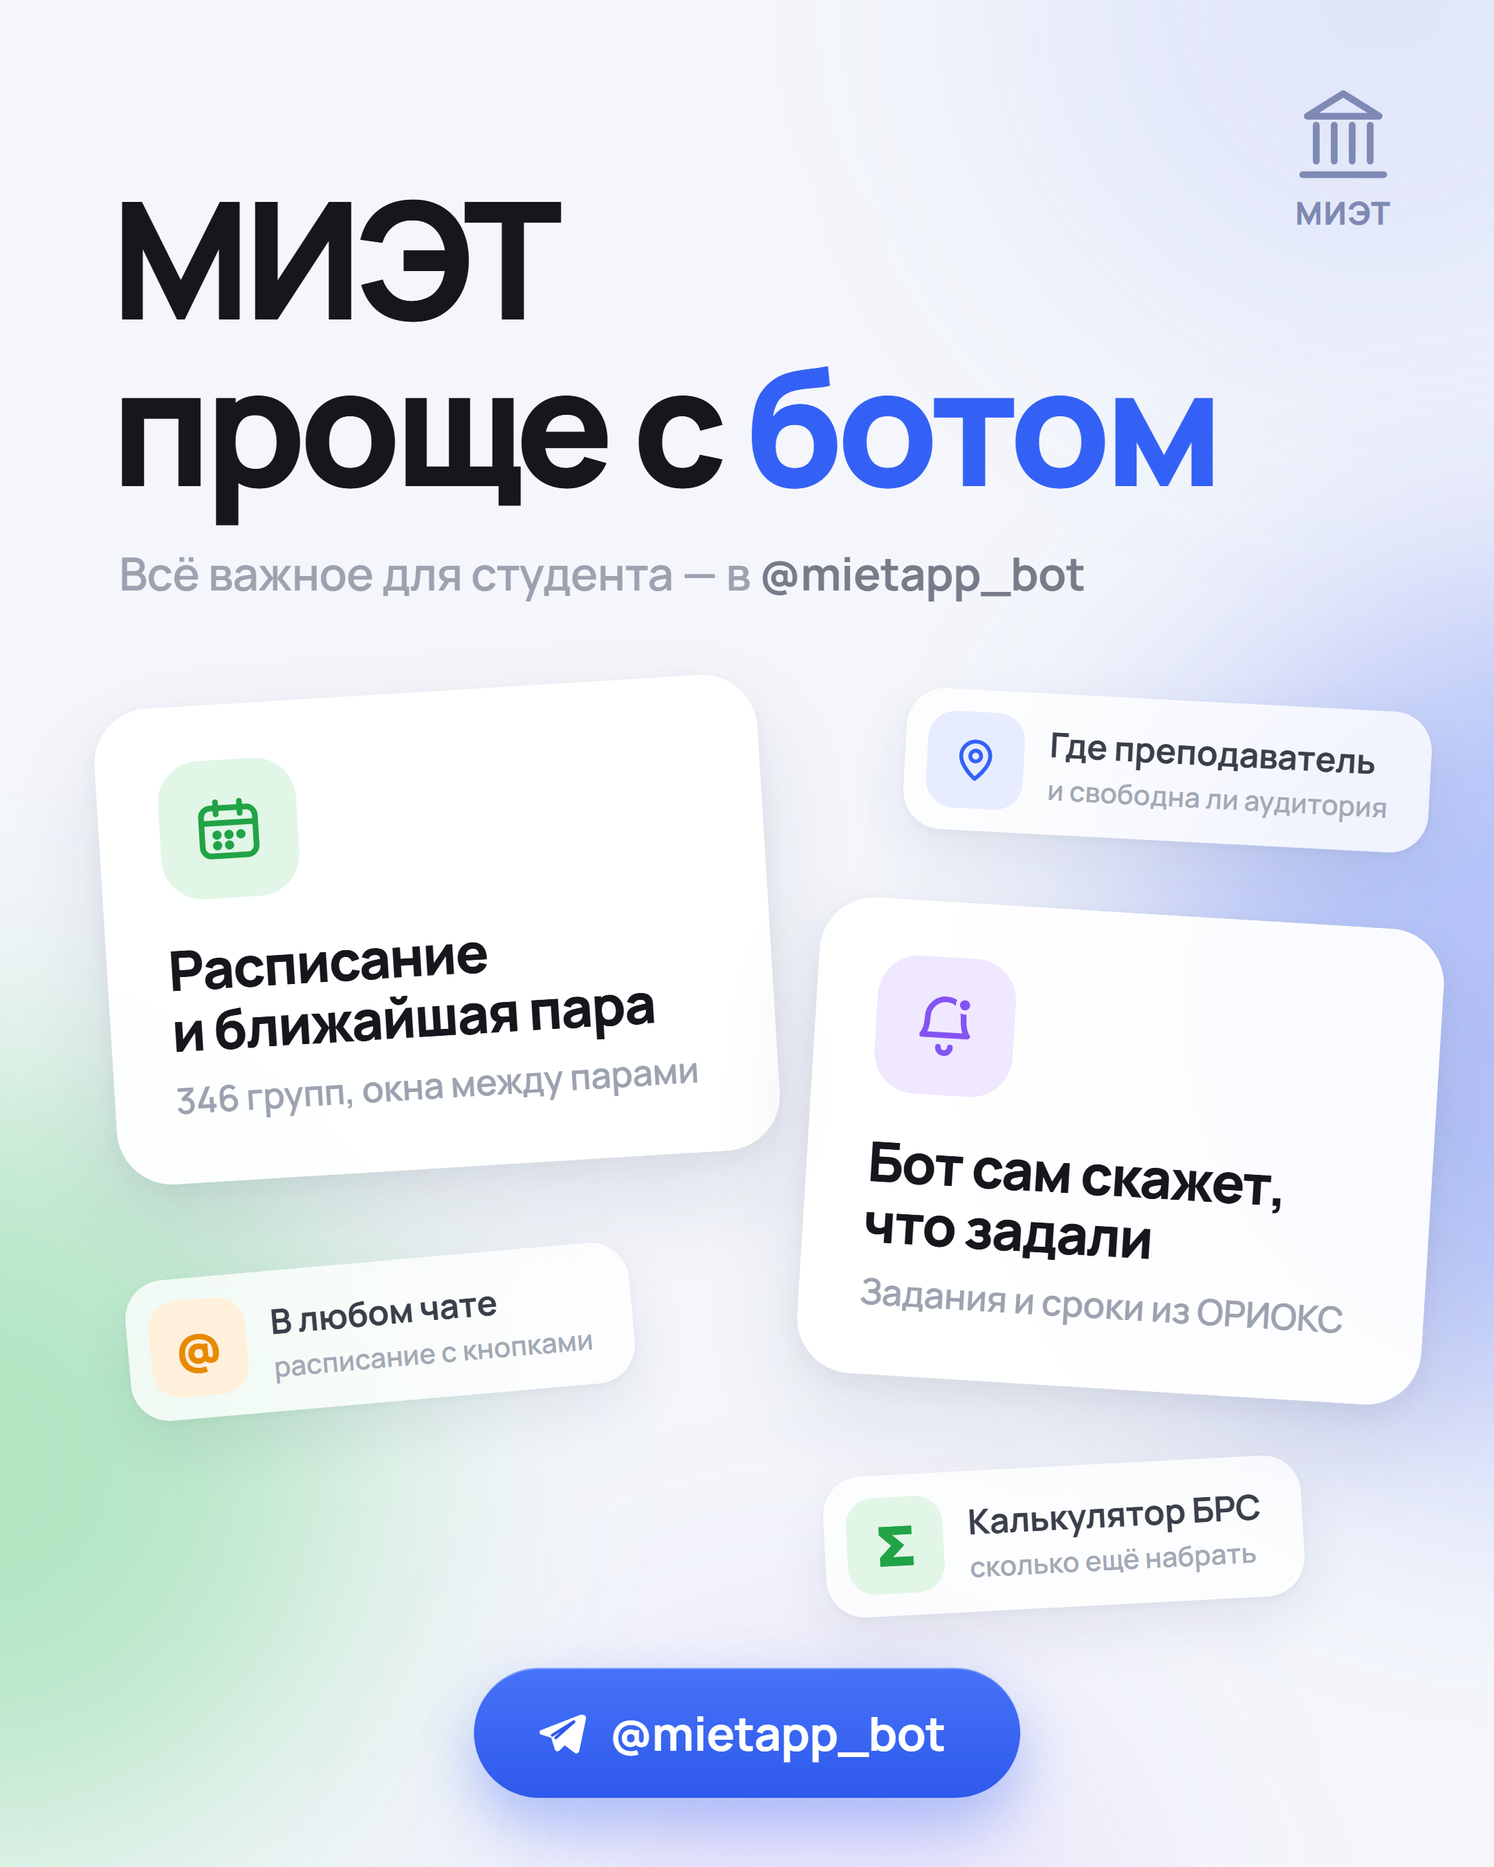
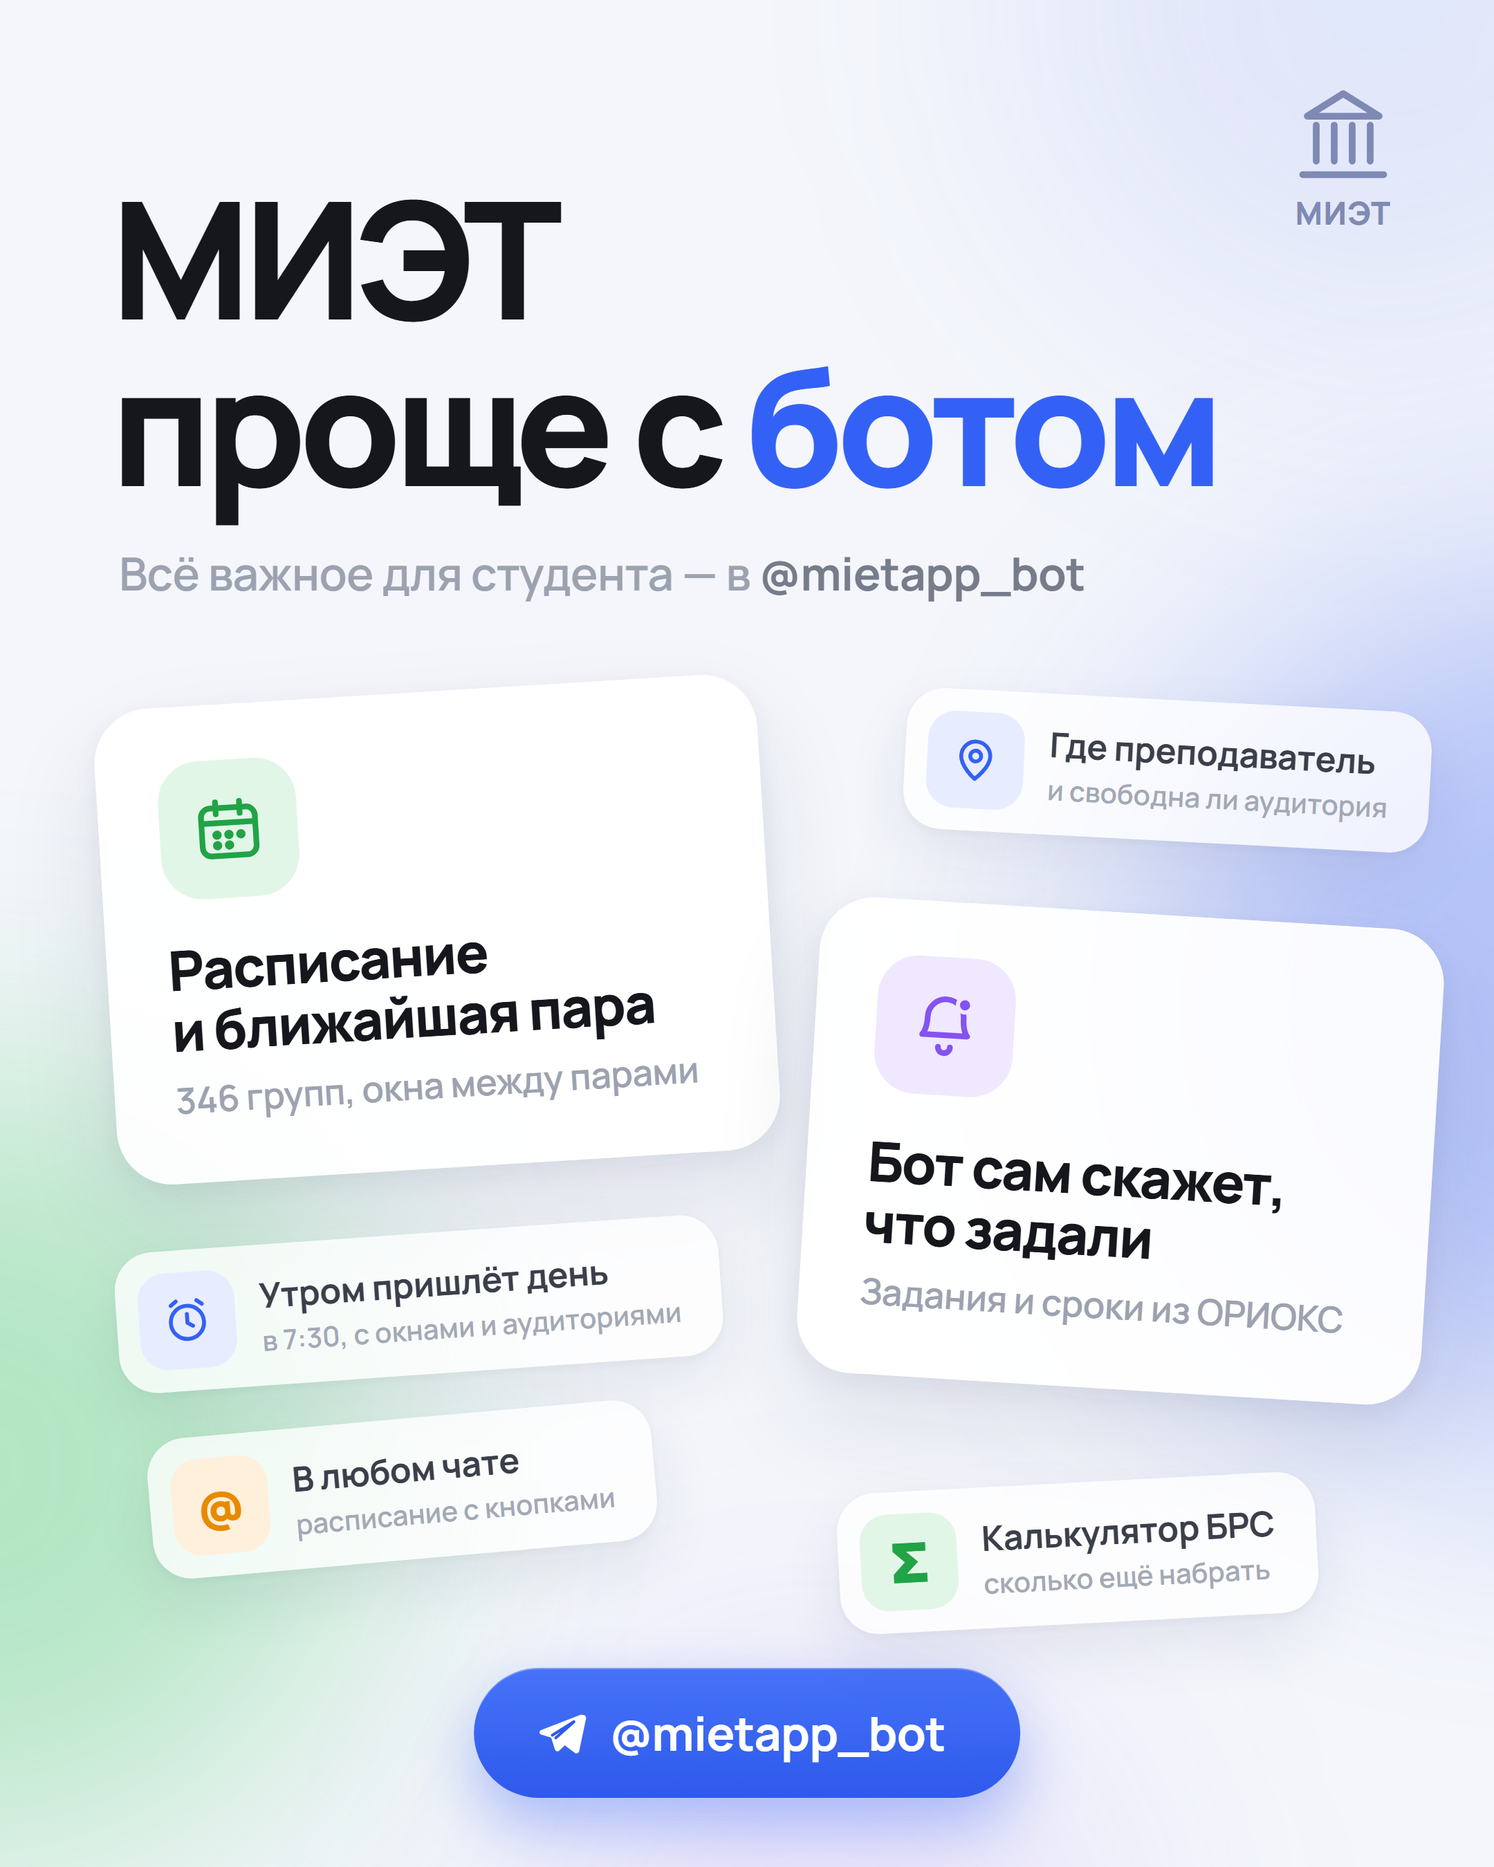
Пост собирается нашими премиум-эмодзи
Значки в подписи были случайные — те, что под рукой в раскладке. Теперь
они берутся из bot/emoji.py, из того же набора, который бот рисует в
расписании: человек видит одни и те же иконки в посте и внутри бота, и
это читается как одно целое.

Отправку вынес в promo/send.py: пост набирается один раз, а отсылать
его себе нужно каждый раз, когда меняется текст или картинка, — и
именно так, как его увидит читатель. Скопировать разметку руками
нельзя, Telegram Desktop вставит её обычным текстом. Если премиум-
эмодзи не примут, скрипт отправит те же строки запасными обычными:
набор хранит пару как раз для этого.

На карточке добавилась утренняя рассылка — то, чего у соседей нет:
остальное надо открыть и нажать, а эта работает сама.

Changed region(s): [[0.062, 0.6533, 0.4653, 0.8711], [0.5583, 0.7778, 0.8685, 0.8711]]

diff --git a/promo/card.html b/promo/card.html
@@ -163,14 +163,25 @@
     <p>Задания и сроки из ОРИОКС</p>
   </div>
 
-  <!-- любой чат: плашка, слева -->
-  <div class="chip" style="left: 92px; top: 912px; transform: rotate(-5deg)">
+  <!-- утренняя карточка: плашка, слева — это главное отличие бота -->
+  <div class="chip" style="left: 84px; top: 892px; transform: rotate(-4deg)">
+    <div class="tile t-blue">
+      <svg width="36" height="36" viewBox="0 0 24 24">
+        <circle cx="12" cy="13" r="8"/><path d="M12 9v4.2l2.6 1.6"/>
+        <path d="M4.5 4.5 7 2.6M19.5 4.5 17 2.6"/>
+      </svg>
+    </div>
+    <div><b>Утром пришлёт день</b><small>в 7:30, с окнами и аудиториями</small></div>
+  </div>
+
+  <!-- любой чат: плашка, слева ниже -->
+  <div class="chip" style="left: 108px; top: 1026px; transform: rotate(-5deg)">
     <div class="tile t-orange"><span class="glyph" style="font-size: 38px">@</span></div>
     <div><b>В любом чате</b><small>расписание с кнопками</small></div>
   </div>
 
   <!-- БРС: плашка, справа снизу -->
-  <div class="chip" style="left: 596px; top: 1060px; transform: rotate(-3deg)">
+  <div class="chip" style="left: 606px; top: 1072px; transform: rotate(-3deg)">
     <div class="tile t-green"><span class="glyph" style="font-size: 40px">Σ</span></div>
     <div><b>Калькулятор БРС</b><small>сколько ещё набрать</small></div>
   </div>

diff --git a/promo/send.py b/promo/send.py
@@ -1,0 +1,105 @@
+# -*- coding: utf-8 -*-
+"""
+Отправляет промо-карточку с подписью себе в Telegram.
+
+    python promo/send.py           → карточка + подпись на премиум-эмодзи
+    python promo/send.py --plain   → то же обычными значками
+
+Зачем отдельный скрипт: пост набирается один раз, а отправить его себе
+нужно каждый раз, когда меняется текст или картинка, — и отправить
+именно так, как его увидит читатель, вместе с премиум-эмодзи. Копировать
+разметку руками в этом случае бесполезно: Telegram Desktop вставит её
+как обычный текст.
+
+Значки берутся из `bot/emoji.py` — того же набора, что бот рисует в
+расписании. Человек видит одни и те же иконки в посте и внутри бота, и
+это читается как одно целое. Если Telegram премиум-эмодзи не примет
+(их разрешают не всякому имени бота), скрипт отправит те же строки
+запасными обычными: набор хранит пару как раз для этого.
+"""
+from __future__ import annotations
+
+import io
+import json
+import os
+import sys
+
+import requests
+
+sys.stdout.reconfigure(encoding="utf-8")
+
+HERE = os.path.dirname(os.path.abspath(__file__))
+ROOT = os.path.dirname(HERE)
+sys.path.insert(0, ROOT)
+
+from bot import emoji as em                                    # noqa: E402
+
+# Кому слать. Свой же id: это черновик поста, а не рассылка.
+OWNER = int(os.environ.get("PROMO_TO") or 5133646963)
+
+CARD = os.path.join(HERE, "mietapp-card.png")
+
+# Строки списка: (значок, текст). Порядок — по тому, как часто этим
+# пользуются, а не по тому, чем приятнее хвастаться.
+ROWS = [
+    ("calendar", "расписание всех 346 групп и ближайшая пара"),
+    ("time", "окна между парами — видно, сколько ждать"),
+    ("bell", "утром в 7:30 бот сам пришлёт день"),
+    ("list", "задания и сроки из ОРИОКС"),
+    ("other", "файлы преподавателей: условия, методички"),
+    ("teacher", "где сейчас преподаватель и свободна ли аудитория"),
+    ("star", "калькулятор БРС — сколько ещё набрать"),
+    ("people", "новости, кружки, чаты и доска взаимопомощи"),
+    ("chat", "работает в любом чате: @mietapp_bot и группа"),
+]
+
+
+def token() -> str:
+    for line in io.open(os.path.join(ROOT, ".env"), encoding="utf-8"):
+        if line.startswith("BOT_TOKEN"):
+            return line.split("=", 1)[1].strip()
+    sys.exit("В .env нет BOT_TOKEN")
+
+
+def caption(custom: bool = True) -> str:
+    ico = lambda name: em.ico(name, custom)                    # noqa: E731
+    body = "\n".join(f"{ico(name)} {text};" for name, text in ROWS)
+    return (
+        f"{ico('graduate')} <b>МИЭТ проще с одним ботом</b>\n\n"
+        "<i>Если надоело искать расписание по чатам, выяснять, в какой "
+        "аудитории сидит преподаватель, и по сто раз заходить в ОРИОКС — "
+        "попробуй @mietapp_bot.</i>\n\n"
+        f"{ico('sparkle')} <b>Внутри уже есть:</b>\n\n"
+        f"<blockquote>{body}</blockquote>\n\n"
+        "<b>Короче, всё важное для студента МИЭТ — в одном месте.</b>\n\n"
+        f"{ico('app')} Открыть: @mietapp_bot"
+    )
+
+
+def main() -> int:
+    plain = "--plain" in sys.argv
+    if not os.path.exists(CARD):
+        sys.exit(f"Нет картинки {CARD} — собери её: python promo/render.py")
+
+    # Сначала с премиум-эмодзи, при отказе — обычными. Второй заход
+    # нужен редко, но узнать об отказе постфактум неоткуда: Telegram
+    # отклоняет сообщение целиком, а не заменяет значки.
+    for custom in ((False,) if plain else (True, False)):
+        text = caption(custom)
+        with open(CARD, "rb") as f:
+            r = requests.post(
+                f"https://api.telegram.org/bot{token()}/sendPhoto",
+                data={"chat_id": OWNER, "caption": text, "parse_mode": "HTML"},
+                files={"photo": ("mietapp-card.png", f, "image/png")},
+                timeout=120)
+        out = r.json()
+        if out.get("ok"):
+            kind = "обычными значками" if not custom else "с премиум-эмодзи"
+            print(f"отправлено {kind}: сообщение {out['result']['message_id']}")
+            return 0
+        print("не прошло:", json.dumps(out, ensure_ascii=False)[:200])
+    return 1
+
+
+if __name__ == "__main__":
+    sys.exit(main())

diff --git a/promo/post.md b/promo/post.md
@@ -1,28 +1,40 @@
 # Пост для канала
 
-Картинка — `mietapp-card.png`, текст ниже идёт подписью к ней одним
-сообщением (≈650 символов, в лимит подписи Telegram 1024 укладывается).
+Картинка — `mietapp-card.png` (2160×2700, 4:5), текст идёт подписью к ней
+одним сообщением.
 
-Форматирование: первая строка — **жирным**, абзац про ОРИОКС — _курсивом_,
-список — цитатой (выдели → правый клик → Форматирование → Цитата),
-предпоследняя строка — жирным целиком или только «всё важное…».
+**Отправить себе готовый пост:** `python promo/send.py` — придёт ровно в
+том виде, в каком его увидит читатель, вместе с премиум-эмодзи. Дальше
+его можно переслать в канал: значки и форматирование переживают
+пересылку. Копировать разметку руками бесполезно — Telegram Desktop
+вставит её обычным текстом.
+
+Пересобрать картинку: `python promo/render.py` (нужен Chrome или Edge).
+
+Значки берутся из `bot/emoji.py` — того же набора, который бот рисует в
+расписании: пост и бот выглядят как одно целое. Если Telegram премиум-
+эмодзи не примет, `send.py` сам отправит те же строки обычными.
 
 ---
 
-МИЭТ проще с одним ботом 🤖
+🎓 **МИЭТ проще с одним ботом**
 
-Если надоело искать расписание по чатам, выяснять, в какой аудитории сидит преподаватель, и по сто раз заходить в ОРИОКС — попробуй @mietapp_bot.
+_Если надоело искать расписание по чатам, выяснять, в какой аудитории
+сидит преподаватель, и по сто раз заходить в ОРИОКС — попробуй
+@mietapp_bot._
 
-Внутри уже есть:
+✨ **Внутри уже есть:**
 
-• расписание всех 346 групп и ближайшая пара;
-• окна между парами и подгруппы — без путаницы;
-• задания и сроки из ОРИОКС — бот сам напишет, что задали;
-• где сейчас преподаватель и свободна ли аудитория;
-• калькулятор БРС — сколько ещё набрать;
-• кружки, новости и доска взаимопомощи;
-• работает в любом чате: напиши @mietapp_bot и номер группы.
+> 📅 расписание всех 346 групп и ближайшая пара;
+> ⌚ окна между парами — видно, сколько ждать;
+> 🔔 утром в 7:30 бот сам пришлёт день;
+> 📋 задания и сроки из ОРИОКС;
+> 📄 файлы преподавателей: условия, методички;
+> 👤 где сейчас преподаватель и свободна ли аудитория;
+> ⭐ калькулятор БРС — сколько ещё набрать;
+> 👥 новости, кружки, чаты и доска взаимопомощи;
+> 💬 работает в любом чате: @mietapp_bot и группа.
 
-Короче, всё важное для студента МИЭТ — в одном месте.
+**Короче, всё важное для студента МИЭТ — в одном месте.**
 
-👉 Открыть: @mietapp_bot
+📱 Открыть: @mietapp_bot
